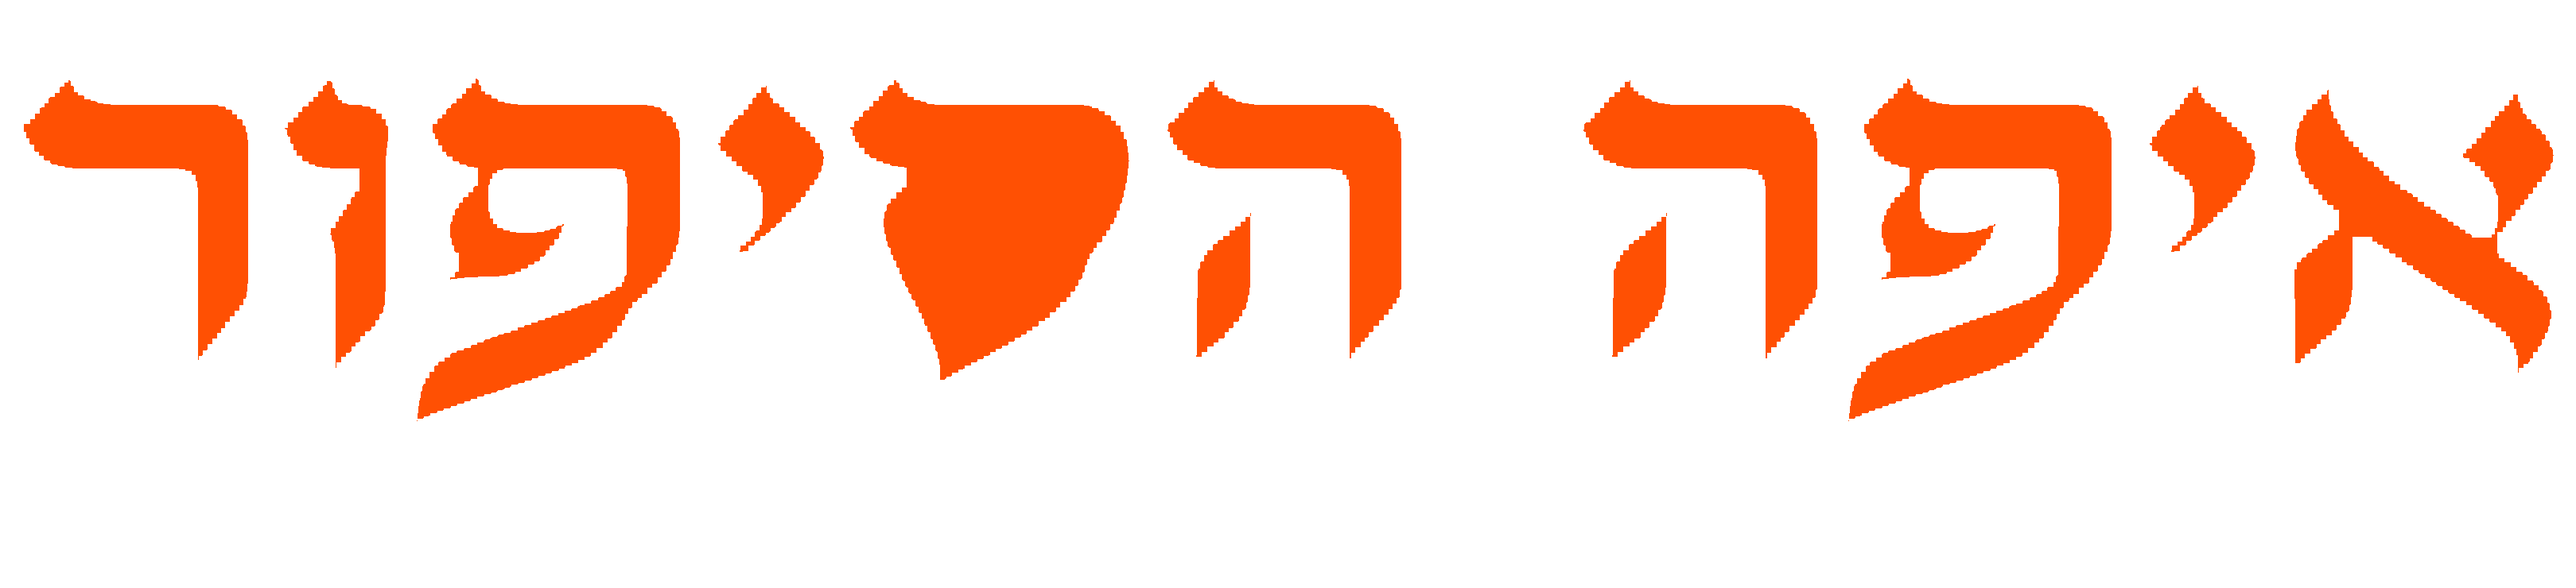
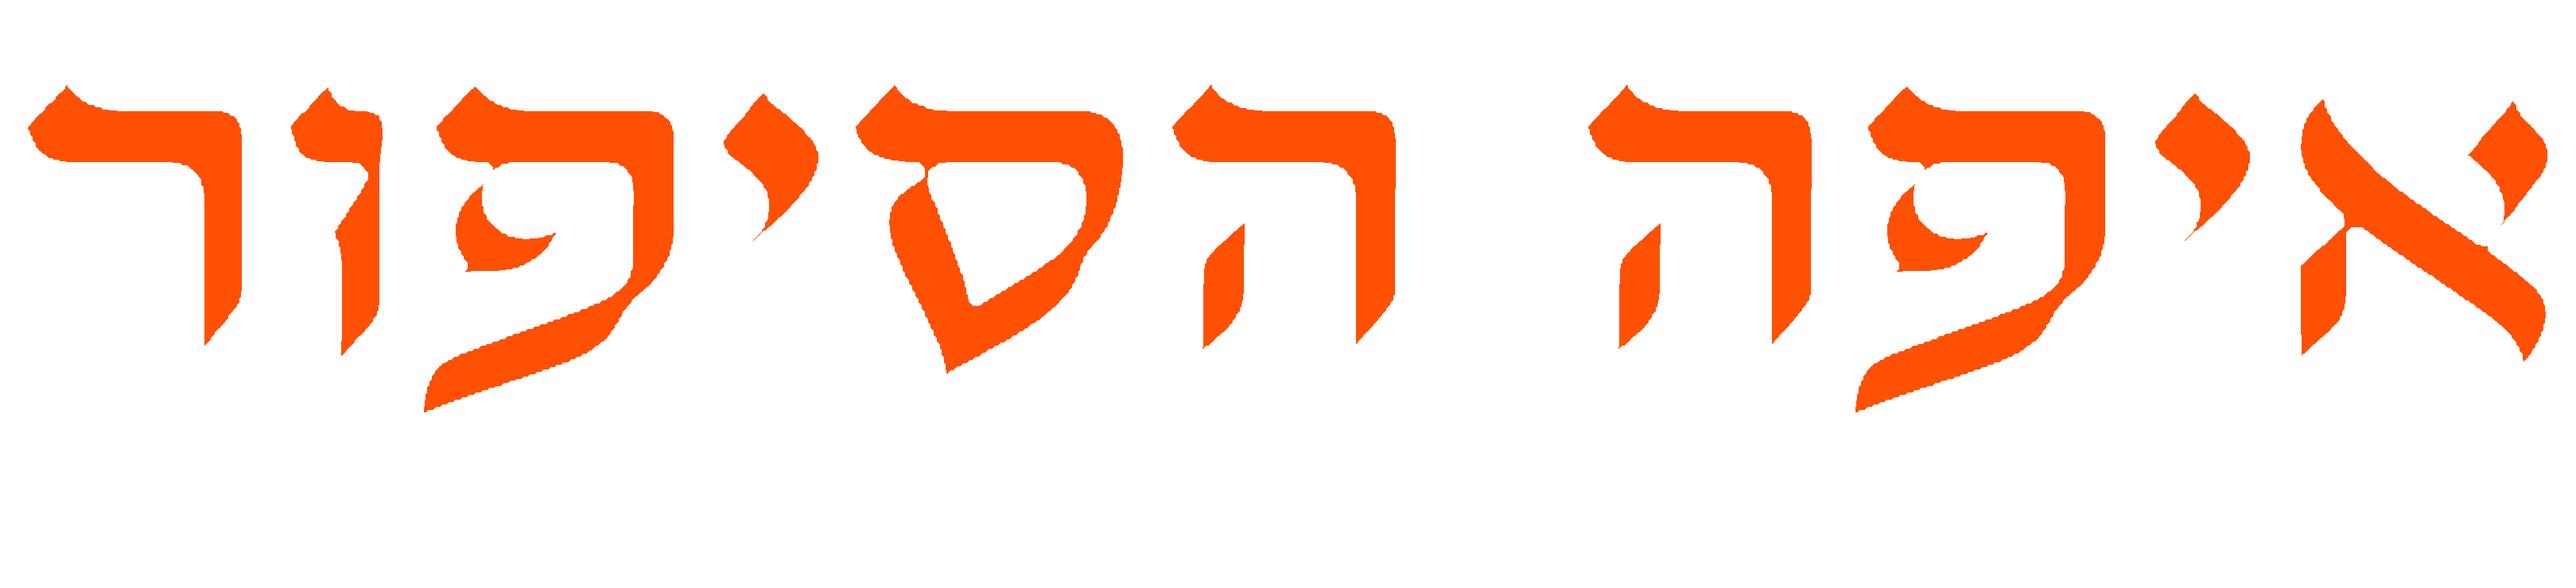
Globe title fill: smaller, denser orange dots (5px tile, 30% dot). Regenerate the body masks so ENCLOSED counters stay empty — the ס counter is a nested hole whose inner ring isn't connected to the exterior, so exclude any hole not adjacent to exterior-touching ink (flood-fill kept for open letters)

diff --git a/v5/stage1.css b/v5/stage1.css
@@ -1227,8 +1227,8 @@ body.theme-negative #section-3[data-stage="0"] .stage1-panel .s1p-title {
   background-color: #282828;   /* dotted outline (dark on the light plate) */
 }
 #section-3[data-stage="0"] .roots-widget .roots-story-line::after {
-  background-image: radial-gradient(circle, #ff5003 42%, transparent 46%);
-  background-size: 8px 8px;
+  background-image: radial-gradient(circle, #ff5003 30%, transparent 34%);
+  background-size: 5px 5px;     /* smaller, denser dots */
   background-repeat: repeat;
   opacity: 0;                  /* revealed by .dots-filled once typed in */
   transition: opacity 0.6s ease;
@@ -1242,8 +1242,8 @@ body.theme-negative #section-3[data-stage="0"] .stage1-panel .s1p-title {
   mask-image: url(/image/v5-stage1/story-line1.png?v=5);
 }
 #section-3[data-stage="0"] .roots-widget .rsl-1::after {
-  -webkit-mask-image: url(/image/v5-stage1/story-line1-fill.png?v=1);
-  mask-image: url(/image/v5-stage1/story-line1-fill.png?v=1);
+  -webkit-mask-image: url(/image/v5-stage1/story-line1-fill.png?v=2);
+  mask-image: url(/image/v5-stage1/story-line1-fill.png?v=2);
 }
 #section-3[data-stage="0"] .roots-widget .rsl-2 {
   width: calc(var(--story-w) * 0.85) !important;
@@ -1259,8 +1259,8 @@ body.theme-negative #section-3[data-stage="0"] .stage1-panel .s1p-title {
   mask-image: url(/image/v5-stage1/story-line2.png?v=5);
 }
 #section-3[data-stage="0"] .roots-widget .rsl-2::after {
-  -webkit-mask-image: url(/image/v5-stage1/story-line2-fill.png?v=1);
-  mask-image: url(/image/v5-stage1/story-line2-fill.png?v=1);
+  -webkit-mask-image: url(/image/v5-stage1/story-line2-fill.png?v=2);
+  mask-image: url(/image/v5-stage1/story-line2-fill.png?v=2);
 }
 /* The stepped clip reveal plays only once the choreography arms it (.story-go),
    so it can type in while the title is held BIG + centred (see runStage0Choreography). */

diff --git a/v5/index.html b/v5/index.html
@@ -9,7 +9,7 @@
        on top of v4's full functionality. styles.css stays first so its
        cascade order is preserved; geometric.css wins by being later. -->
   <link rel="stylesheet" href="geometric.css?v=30" />
-  <link rel="stylesheet" href="stage1.css?v=167" />
+  <link rel="stylesheet" href="stage1.css?v=168" />
   <!-- Portrait Story recording layout (opening screen only). Loaded LAST and
        scoped to html.story-mode; inert for the exhibition. -->
   <link rel="stylesheet" href="story.css?v=18" />
